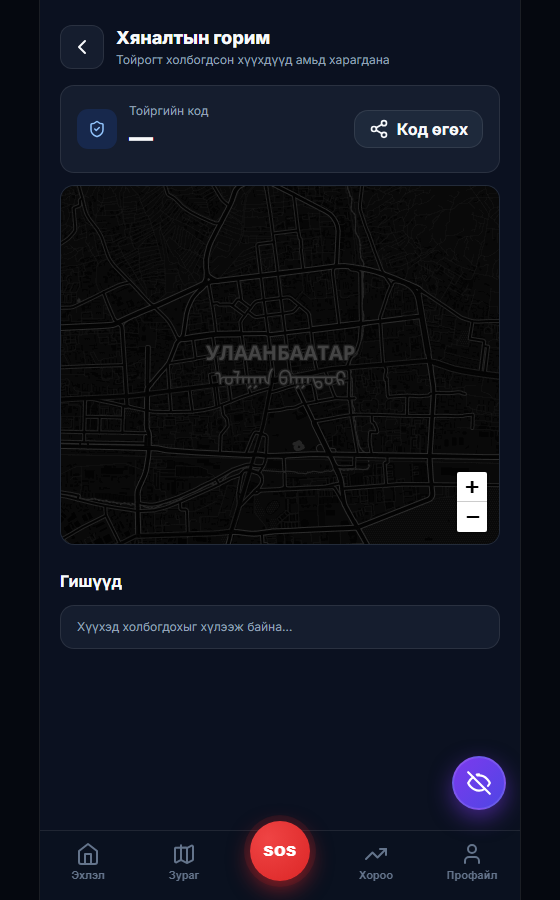
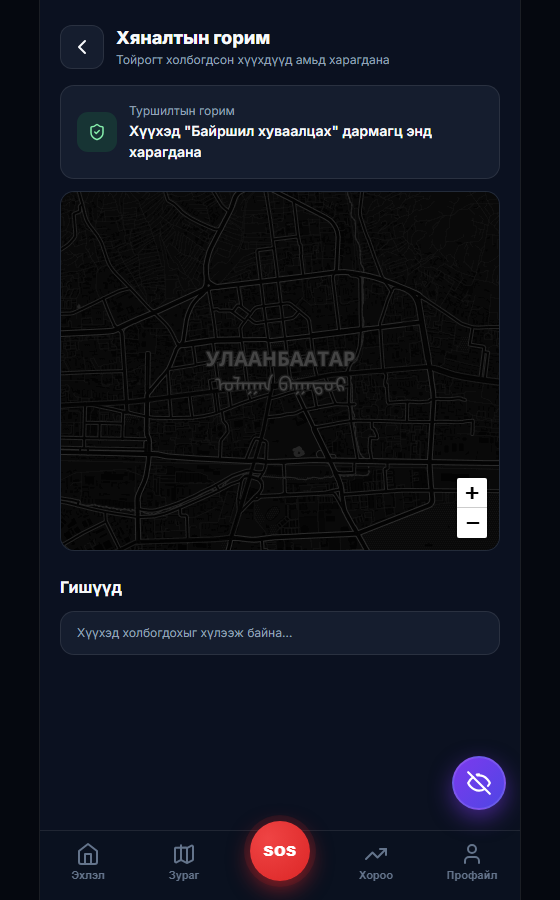
GUIDE-г код-гүй авто холболтын урсгалд тааруулж шинэчлэв
- Ахлагч/Хүүхэд хэсгээс код үүсгэх/оруулах алхмыг хассан (туршилтын авто холболт)
- Тестийн заавар шинэчилсэн + iPhone байршлын тэмдэглэл
- 02-child, 03-guardian зургийг одоогийн дэлгэцээр шинэчилсэн

diff --git a/GUIDE.md b/GUIDE.md
@@ -45,10 +45,11 @@
 
 <img src="guide/03-guardian.png" width="320" alt="Ахлагчийн дэлгэц" />
 
-1. **"Хэсгийн ахлагч / Эцэг эх"** сонгоно → **4 оронтой код** үүснэ
-2. Кодоо хүүхдэд өгнө ("Код өгөх" товчоор хуваалцаж болно)
-3. Хүүхэд холбогдмогц газрын зураг дээр **амьд харагдана** — байршил, батерей, төлөв
-4. Хүүхэд SOS дарвал **бүтэн дэлгэцээр улаан анхааруулга + дуу + чичиргээ** ирнэ → "Хүлээн авлаа" дарж шийдвэрлэнэ
+1. **"Хэсгийн ахлагч / Эцэг эх"** сонгоно
+2. Хүүхэд байршлаа хуваалцмагц газрын зураг дээр **амьд харагдана** — байршил, батерей, төлөв
+3. Хүүхэд SOS дарвал **бүтэн дэлгэцээр улаан анхааруулга + дуу + чичиргээ** ирнэ → "Хүлээн авлаа" дарж шийдвэрлэнэ
+
+> 🧪 *Туршилтын горимд* хүүхэд, ахлагч хоёр **автоматаар холбогдоно** (код шаардахгүй). Жинхэнэ хувилбарт хувийн **холбох код**-оор зөвхөн өөрийн гэр бүлтэй холбогдоно.
 
 ---
 
@@ -56,8 +57,8 @@
 
 <img src="guide/02-child.png" width="320" alt="Хүүхдийн дэлгэц" />
 
-1. **"Хүүхэд"** сонгоно → ахлагчаас авсан **кодоо оруулна**
-2. **"Байршил хуваалцаж эхлэх"** → ахлагч таныг хянаж эхэлнэ
+1. **"Хүүхэд"** сонгоно
+2. **"Байршил хуваалцаж эхлэх"** → ахлагчтай **шууд холбогдож**, таныг хянаж эхэлнэ
 3. **SOS дуудлага** — аюул тулгарвал товч дарж тусламж дуудна
 4. **"Гэртээ хүртэл хяна"** — аялах үед ахлагч таныг дагаж, аюулгүй хүрэхэд мэдэгдэнэ
 
@@ -91,14 +92,16 @@
 ## 8. Хэрхэн туршиж үзэх вэ?
 
 **Компьютер дээр хурдан тест (2 цонх):**
-1. Энгийн цонхоор сайт нээ → нэр → **Хэсгийн ахлагч** → код гарна
-2. Нэвтрэхгүй (incognito) цонхоор сайт нээ → нэр → **Хүүхэд** → кодыг оруул
-3. Хүүхэд "Байршил хуваалцах" → ахлагчийн зураг дээр цэг гарна; **SOS** → ахлагчид шууд дохио
+1. Энгийн цонхоор сайт нээ → нэр → **Хэсгийн ахлагч** (хүлээнэ)
+2. Нэвтрэхгүй (incognito) цонхоор сайт нээ → нэр → **Хүүхэд**
+3. Хүүхэд **"Байршил хуваалцах"** → ахлагчийн зураг дээр цэг **шууд** гарна; **SOS** → ахлагчид шууд дохио
 
 **2 утсаар бодит тест:**
 1. 2 утсанд сайтыг нээж "Add to Home screen"
-2. Дээрхтэй адил ахлагч/хүүхэд болж холбогдоно
+2. Нэг утас **Ахлагч**, нөгөө нь **Хүүхэд** болж сонгоно (код хэрэггүй)
 3. Хүүхэд алхах үед ахлагчид **амьд хөдөлж** харагдана; SOS шууд ирнэ
+
+> 📍 Байршил асуухад **Allow** дарна. iPhone дээр: Settings → Location Services → Safari зөвшөөрөлтэй байх ёстой.
 
 ---
 